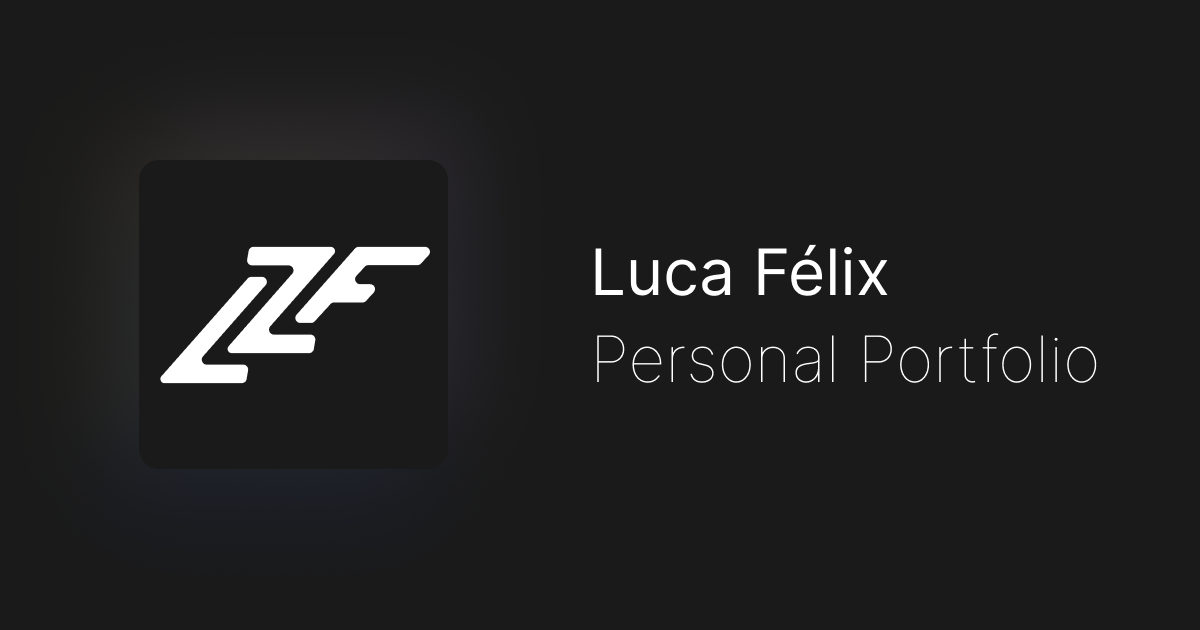
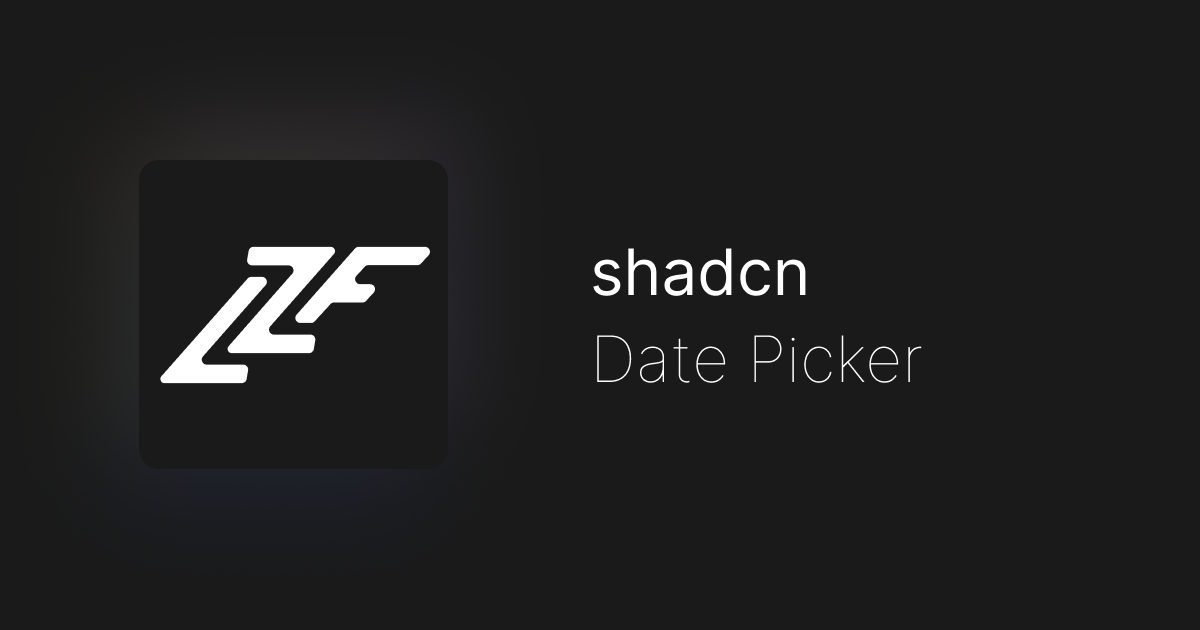
chore: :mag: improve SEO and new opengraph images

Changed region(s): [[0.4933, 0.5429, 0.8942, 0.6032], [0.4933, 0.3921, 0.74, 0.4825]]

diff --git a/app/manifest.ts b/app/manifest.ts
@@ -1,11 +1,11 @@
+import { siteConfig } from "@/config/site"
 import { MetadataRoute } from "next"
 
 export default function manifest(): MetadataRoute.Manifest {
   return {
-    name: "Shadcn Date Picker",
-    short_name: "Shadcn Date Picker",
-    description:
-      "Advanced date picker with range selection, year and month selection, and more.",
+    name: siteConfig.title,
+    short_name: siteConfig.title,
+    description: siteConfig.description,
     start_url: "/",
     display: "standalone",
     background_color: "#fff",
